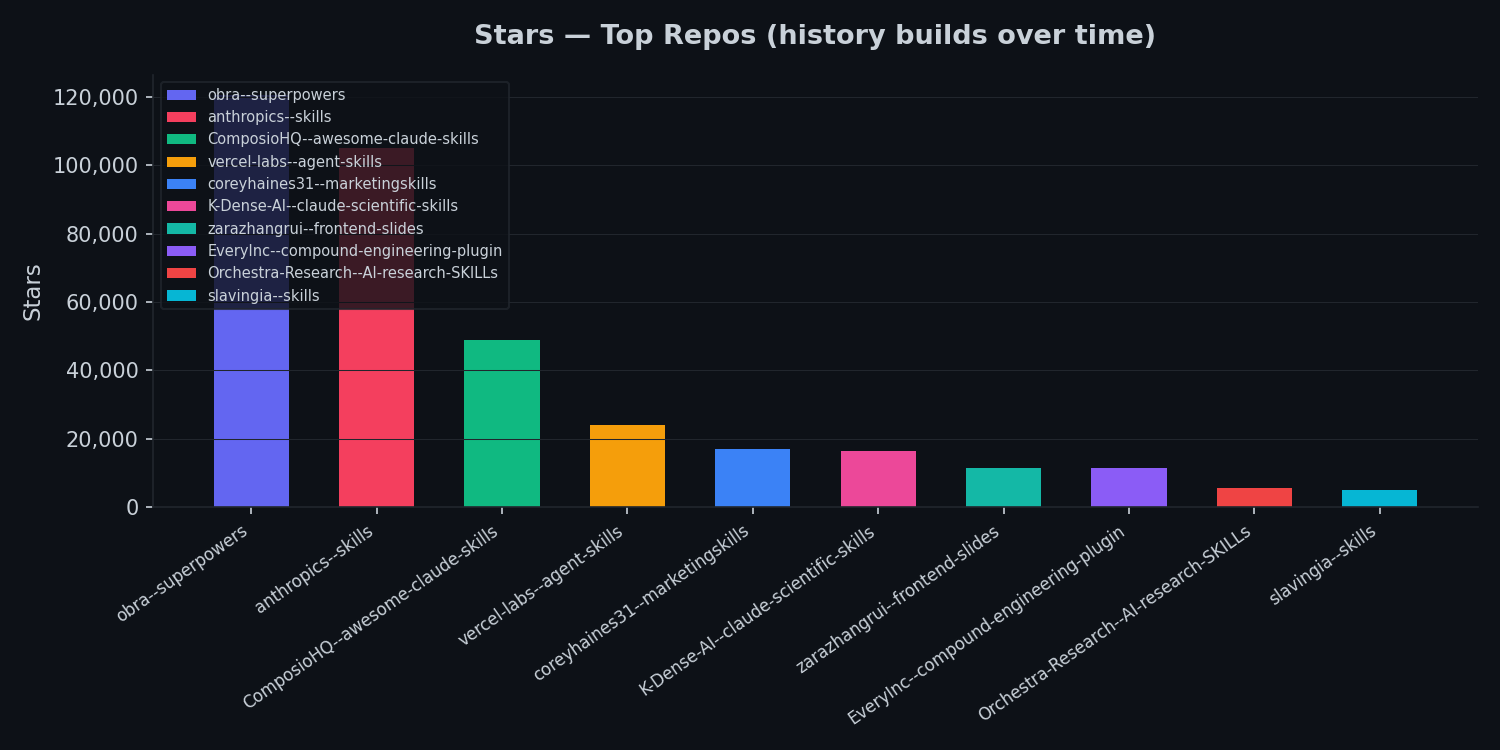
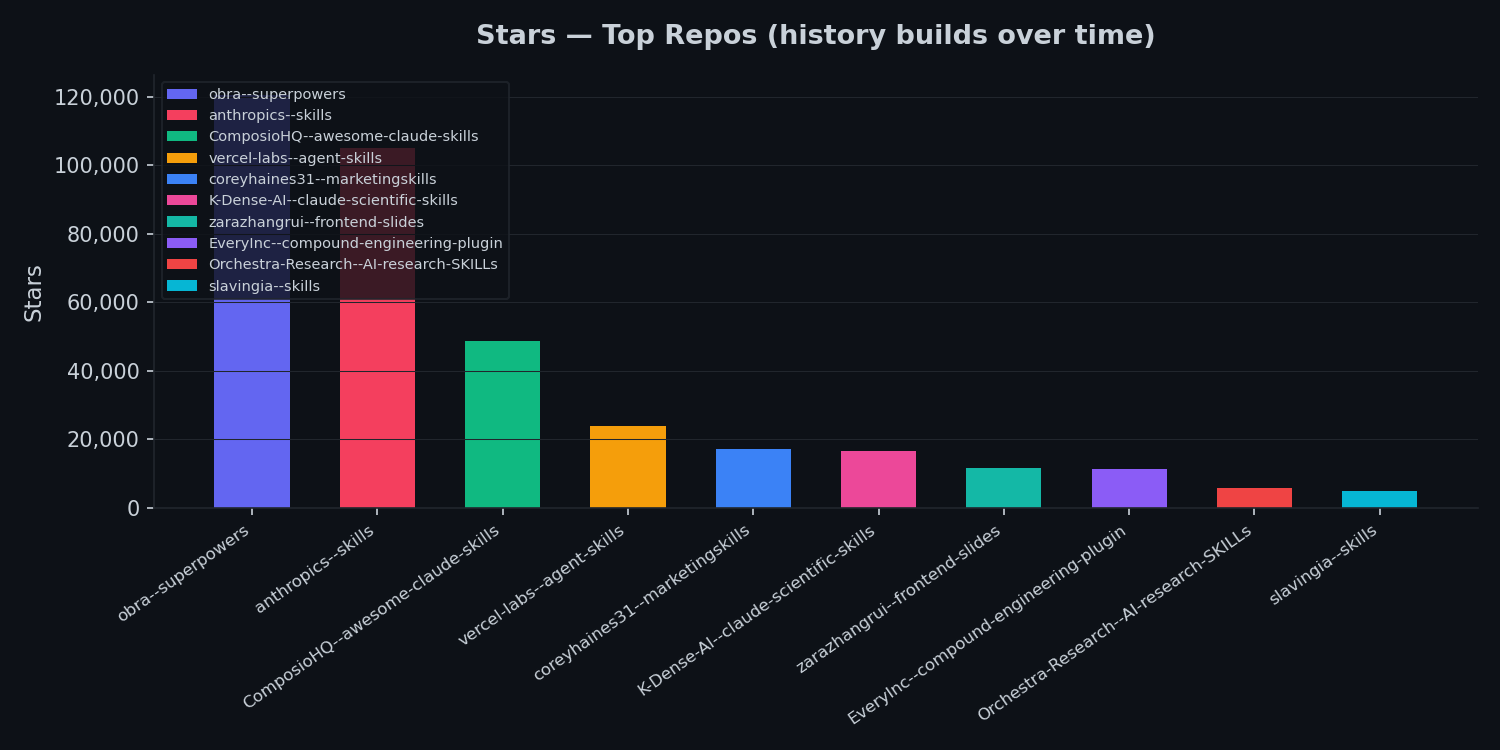
Regenerate after merge conflict

diff --git a/README.md b/README.md
@@ -11,92 +11,92 @@ A curated collection of Claude Code skills repos, automatically synced every 2 d
 | Metric | Value |
 |--------|-------|
 | **Total repos** | 77 |
-| **Total skill files** | 6171 (-11) |
-| **Total size** | 227.8 MB |
-| **Last synced** | 2026-03-28 20:13 UTC |
-| **Sync time** | 31s |
+| **Total skill files** | 6182 |
+| **Total size** | 227.9 MB |
+| **Last synced** | 2026-03-28 20:17 UTC |
+| **Sync time** | 0s |
 
 ## Repos
 
 | Repo | Description | Skills | Stars | Size | Last Commit | Last Commit Date | Message |
 |------|-------------|--------|-------|------|-------------|------------------|---------|
-| [slavingia--skills](https://github.com/slavingia/skills) | Claude Code skills by Sahil Lavingia | 10 | 4942 (+1) | 0.0 MB | `d947f9fdca` | 2026-03-28 | Smart sync: only clone/pull repos with new commits |
-| [zarazhangrui--codebase-to-course](https://github.com/zarazhangrui/codebase-to-course) | Turn any codebase into a structured course | 3 | 2260 (+2) | 0.1 MB | `d947f9fdca` | 2026-03-28 | Smart sync: only clone/pull repos with new commits |
-| [samber--cc-skills-golang](https://github.com/samber/cc-skills-golang) | Claude Code skills for Go development | 168 | 524 (+2) | 2.7 MB | `d947f9fdca` | 2026-03-28 | Smart sync: only clone/pull repos with new commits |
-| [realkimbarrett--advertising-skills](https://github.com/realkimbarrett/advertising-skills) | Advertising skills | 19 | 369 | 0.0 MB | `d947f9fdca` | 2026-03-28 | Smart sync: only clone/pull repos with new commits |
-| [ComposioHQ--awesome-claude-skills](https://github.com/ComposioHQ/awesome-claude-skills) | A curated list of awesome Claude Skills, resources, and tools for customizing Claude AI workflows  | 889 | 48804 (+3) | 11.1 MB | `d947f9fdca` | 2026-03-28 | Smart sync: only clone/pull repos with new commits |
-| [anthropics--skills](https://github.com/anthropics/skills) |  Public repository for Agent Skills  | 67 | 105039 (+3) | 9.5 MB | `d947f9fdca` | 2026-03-28 | Smart sync: only clone/pull repos with new commits |
-| [1NickPappas--move-code-quality-skill](https://github.com/1NickPappas/move-code-quality-skill) | Claude Code skill for analyzing Move packages against the official Move Book Code Quality Checklist | 1 | 18 | 0.0 MB | `d947f9fdca` | 2026-03-28 | Smart sync: only clone/pull repos with new commits |
-| [ARPeeketi--claude-resume-kit](https://github.com/ARPeeketi/claude-resume-kit) | Extract your papers once, generate tailored LaTeX resumes for every JD. Anti-fabrication controls, multi-perspective critique, AI fingerprint avoidance. | 22 | 30 | 0.5 MB | `d947f9fdca` | 2026-03-28 | Smart sync: only clone/pull repos with new commits |
-| [AgriciDaniel--claude-blog](https://github.com/AgriciDaniel/claude-blog) | Claude Code skill ecosystem for blog content creation, optimization, and management. Dual-optimized for Google rankings and AI citations. | 77 | 331 | 2.6 MB | `d947f9fdca` | 2026-03-28 | Smart sync: only clone/pull repos with new commits |
-| [AgriciDaniel--claude-email](https://github.com/AgriciDaniel/claude-email) | AI-powered email management and marketing skill for Claude Code. Inbox triage, composition, quality review, deliverability audit, automation sequences, and marketing strategy. | 27 | 14 | 1.0 MB | `d947f9fdca` | 2026-03-28 | Smart sync: only clone/pull repos with new commits |
-| [ClickHouse--agent-skills](https://github.com/ClickHouse/agent-skills) | The official Agent Skills for ClickHouse and ClickHouse Cloud | 34 | 376 | 0.2 MB | `d947f9fdca` | 2026-03-28 | Smart sync: only clone/pull repos with new commits |
-| [Digidai--product-manager-skills](https://github.com/Digidai/product-manager-skills) | PM skill for Claude Code, Codex, Cursor, and Windsurf: diagnose SaaS metrics, critique PRDs, plan roadmaps, run discovery, and coach PM career transitions. | 25 | 31 | 0.1 MB | `d947f9fdca` | 2026-03-28 | Smart sync: only clone/pull repos with new commits |
-| [EveryInc--compound-engineering-plugin](https://github.com/EveryInc/compound-engineering-plugin) | Office Compound Engineering plugin for Claude Code, Codex, and more | 229 | 11359 | 2.9 MB | `d947f9fdca` | 2026-03-28 | Smart sync: only clone/pull repos with new commits |
-| [Eyadkelleh--awesome-claude-skills-security](https://github.com/Eyadkelleh/awesome-claude-skills-security) | Security testing toolkit for Claude Code: curated SecLists wordlists, injection payloads, and expert agents for authorized pentesting, CTFs, and bug bounties | 19 | 112 | 2.7 MB | `d947f9fdca` | 2026-03-28 | Smart sync: only clone/pull repos with new commits |
-| [HeshamFS--materials-simulation-skills](https://github.com/HeshamFS/materials-simulation-skills) | Agent Skills for computational materials science -- numerical stability, solvers, meshing,   convergence, and simulation workflows. | 69 | 28 | 1.6 MB | `d947f9fdca` | 2026-03-28 | Smart sync: only clone/pull repos with new commits |
-| [Imbad0202--academic-research-skills](https://github.com/Imbad0202/academic-research-skills) | Academic Research Skills for Claude Code: research → write → review → revise → finalize | 120 | 1528 (+1) | 3.9 MB | `d947f9fdca` | 2026-03-28 | Smart sync: only clone/pull repos with new commits |
-| [K-Dense-AI--claude-scientific-skills](https://github.com/K-Dense-AI/claude-scientific-skills) | A set of ready to use Agent Skills for research, science, engineering, analysis, finance and writing. | 921 | 16538 (+1) | 16.5 MB | `d947f9fdca` | 2026-03-28 | Smart sync: only clone/pull repos with new commits |
-| [K-Dense-AI--claude-scientific-writer](https://github.com/K-Dense-AI/claude-scientific-writer) | A general purpose scientific writer | 502 | 1344 | 21.8 MB | `d947f9fdca` | 2026-03-28 | Smart sync: only clone/pull repos with new commits |
-| [NeoLabHQ--context-engineering-kit](https://github.com/NeoLabHQ/context-engineering-kit) | Hand-crafted Claude Code Skills focused on improving agent results quality. Compatible with OpenCode, Cursor, Antigravity, Gemini CLI, and others. | 220 (-10) | 723 | 3.4 MB | `d947f9fdca` | 2026-03-28 | Smart sync: only clone/pull repos with new commits |
-| [Orchestra-Research--AI-research-SKILLs](https://github.com/Orchestra-Research/AI-research-SKILLs) | Comprehensive open-source library of AI research and engineering skills for any AI model. Package the skills and your claude code/codex/gemini agent will be an AI research agent with full horsepower. Maintained by Orchestra Research. | 350 | 5749 | 23.0 MB | `d947f9fdca` | 2026-03-28 | Smart sync: only clone/pull repos with new commits |
-| [Paramchoudhary--ResumeSkills](https://github.com/Paramchoudhary/ResumeSkills) | A collection of AI agent skills focused on resume optimization, job applications, and career development. Built for job seekers, career changers, and professionals who want Claude Code to help with resume writing, ATS optimization, interview prep, and strategic job search. | 27 | 191 | 0.3 MB | `d947f9fdca` | 2026-03-28 | Smart sync: only clone/pull repos with new commits |
-| [Valian--linear-cli-skill](https://github.com/Valian/linear-cli-skill) | linear-cli-skill | 2 | 13 | 0.1 MB | `d947f9fdca` | 2026-03-28 | Smart sync: only clone/pull repos with new commits |
-| [ahmedasmar--devops-claude-skills](https://github.com/ahmedasmar/devops-claude-skills) | A Claude Code Skills Marketplace for DevOps workflows | 41 | 108 | 1.0 MB | `d947f9fdca` | 2026-03-28 | Smart sync: only clone/pull repos with new commits |
-| [airowe--claude-a11y-skill](https://github.com/airowe/claude-a11y-skill) | Claude Code skill for running comprehensive accessibility audits (axe-core + jsx-a11y) | 1 | 4 | 0.0 MB | `d947f9fdca` | 2026-03-28 | Smart sync: only clone/pull repos with new commits |
-| [akin-ozer--cc-devops-skills](https://github.com/akin-ozer/cc-devops-skills) | A practical skill pack for DevOps work in Claude Code and Codex. | 126 | 142 | 4.1 MB | `d947f9fdca` | 2026-03-28 | Smart sync: only clone/pull repos with new commits |
-| [alonw0--web-asset-generator](https://github.com/alonw0/web-asset-generator) | Claude skill to generate favicons, app icons, and social media images from logos, text, or emojis. Supports emoji suggestions, validation, and framework auto-integration. | 4 | 253 | 15.4 MB | `d947f9fdca` | 2026-03-28 | Smart sync: only clone/pull repos with new commits |
-| [antonbabenko--terraform-skill](https://github.com/antonbabenko/terraform-skill) | The Claude Agent Skill for Terraform and OpenTofu - testing, modules, CI/CD, and production patterns | 12 | 1404 | 0.2 MB | `d947f9fdca` | 2026-03-28 | Smart sync: only clone/pull repos with new commits |
-| [avifenesh--agentsys](https://github.com/avifenesh/agentsys) | AI writes code. This automates everything else · 19 plugins, 47 agents, and 39 skills · for Claude Code, OpenCode, Codex, Cursor, Kiro. | 90 | 663 | 3.9 MB | `d947f9fdca` | 2026-03-28 | Smart sync: only clone/pull repos with new commits |
-| [better-auth--skills](https://github.com/better-auth/skills) | skills | 7 | 163 | 0.1 MB | `d947f9fdca` | 2026-03-28 | Smart sync: only clone/pull repos with new commits |
-| [better-i18n--skills](https://github.com/better-i18n/skills) | Official AI agent skills for Better i18n — best practices for i18n implementation, translation workflows, and localization automation with Claude, GPT, and other AI assistants | 10 | 1 | 0.1 MB | `d947f9fdca` | 2026-03-28 | Smart sync: only clone/pull repos with new commits |
-| [brunoasm--my_claude_skills](https://github.com/brunoasm/my_claude_skills) | Claude Skill to prevent automatic confirmatory answers | 13 | 9 | 7.1 MB | `d947f9fdca` | 2026-03-28 | Smart sync: only clone/pull repos with new commits |
-| [callstackincubator--agent-skills](https://github.com/callstackincubator/agent-skills) | A collection of agent-optimized React Native skills for AI coding assistants. | 115 | 1130 | 9.2 MB | `d947f9fdca` | 2026-03-28 | Smart sync: only clone/pull repos with new commits |
-| [chrisvoncsefalvay--claude-d3js-skill](https://github.com/chrisvoncsefalvay/claude-d3js-skill) | A Claude skill for d3.js. | 4 | 138 | 0.1 MB | `d947f9fdca` | 2026-03-28 | Smart sync: only clone/pull repos with new commits |
-| [cloudflare--skills](https://github.com/cloudflare/skills) | Skills for teaching agents how to build on Cloudflare. | 282 | 733 | 1.5 MB | `d947f9fdca` | 2026-03-28 | Smart sync: only clone/pull repos with new commits |
-| [coffeefuelbump--csv-data-summarizer-claude-skill](https://github.com/coffeefuelbump/csv-data-summarizer-claude-skill) | A Claude Skill that automatically analyzes uploaded CSV files — generating summary statistics, detecting missing data, and creating quick visualizations using Python and pandas. | 1 | 315 | 0.0 MB | `d947f9fdca` | 2026-03-28 | Smart sync: only clone/pull repos with new commits |
-| [conorbronsdon--avoid-ai-writing](https://github.com/conorbronsdon/avoid-ai-writing) | Claude Code & OpenClaw skill that audits and rewrites content to remove AI writing patterns | 1 | 47 | 0.1 MB | `d947f9fdca` | 2026-03-28 | Smart sync: only clone/pull repos with new commits |
-| [conorluddy--ios-simulator-skill](https://github.com/conorluddy/ios-simulator-skill) | An IOS Simulator Skill for ClaudeCode. Use it to optimise Claude's ability to build, run and interact with your apps, without using up any of the available token/context budget. | 8 | 674 | 0.4 MB | `d947f9fdca` | 2026-03-28 | Smart sync: only clone/pull repos with new commits |
-| [coreyhaines31--marketingskills](https://github.com/coreyhaines31/marketingskills) | Marketing skills for Claude Code and AI agents. CRO, copywriting, SEO, analytics, and growth engineering. | 174 | 17153 | 1.8 MB | `d947f9fdca` | 2026-03-28 | Smart sync: only clone/pull repos with new commits |
-| [dreamiurg--claude-mountaineering-skills](https://github.com/dreamiurg/claude-mountaineering-skills) | Automates mountain route research for North American peaks. Aggregates data from 10+ mountaineering sources to generate detailed route beta reports with weather, avalanche conditions, and trip reports. | 14 (-1) | 22 | 4.4 MB | `d947f9fdca` | 2026-03-28 | Smart sync: only clone/pull repos with new commits |
-| [emaynard--claude-family-history-research-skill](https://github.com/emaynard/claude-family-history-research-skill) | A Claude Skill to assist with family history and genealogy research planning. | 14 | 49 | 0.1 MB | `d947f9fdca` | 2026-03-28 | Smart sync: only clone/pull repos with new commits |
-| [expo--skills](https://github.com/expo/skills) | A collection of AI agent skills for working with Expo projects and Expo Application Services | 38 | 1565 | 0.2 MB | `d947f9fdca` | 2026-03-28 | Smart sync: only clone/pull repos with new commits |
-| [firecrawl--cli](https://github.com/firecrawl/cli) | CLI and Agent Skill for Firecrawl - Add scrape, search, and browsing capabilities to your AI agents | 10 | 231 (+1) | 0.6 MB | `d947f9fdca` | 2026-03-28 | Smart sync: only clone/pull repos with new commits |
-| [hashicorp--agent-skills](https://github.com/hashicorp/agent-skills) | A collection of Agent skills and Claude Code plugins for HashiCorp products. | 26 | 494 | 0.3 MB | `d947f9fdca` | 2026-03-28 | Smart sync: only clone/pull repos with new commits |
-| [jananthan30--Resume-Builder](https://github.com/jananthan30/Resume-Builder) | AI-powered resume & cover letter generator with dual ATS + HR scoring. Works for any profession. Claude Code plugin. | 18 | 21 | 1.3 MB | `d947f9fdca` | 2026-03-28 | Smart sync: only clone/pull repos with new commits |
-| [javiera-vasquez--claude-code-job-tailor](https://github.com/javiera-vasquez/claude-code-job-tailor) | AI resume optimization system for Claude Code. Analyzes job postings, ranks requirements by priority, and automatically selects your most relevant achievements. Write your experience once in YAML, generate unlimited tailored PDFs in 60 less than seconds using Tailor | 15 | 105 | 34.3 MB | `d947f9fdca` | 2026-03-28 | Smart sync: only clone/pull repos with new commits |
-| [jawwadfirdousi--agent-skills](https://github.com/jawwadfirdousi/agent-skills) | agent-skills | 7 | 5 | 0.1 MB | `d947f9fdca` | 2026-03-28 | Smart sync: only clone/pull repos with new commits |
-| [jthack--ffuf_claude_skill](https://github.com/jthack/ffuf_claude_skill) | This is a "skill" for claude to use FFUF. | 3 | 129 | 0.0 MB | `d947f9fdca` | 2026-03-28 | Smart sync: only clone/pull repos with new commits |
-| [lackeyjb--playwright-skill](https://github.com/lackeyjb/playwright-skill) | Claude Code Skill for browser automation with Playwright. Model-invoked - Claude autonomously writes and executes custom automation for testing and validation. | 2 | 2224 | 0.1 MB | `d947f9fdca` | 2026-03-28 | Smart sync: only clone/pull repos with new commits |
-| [livelabs-ventures--nano-skills](https://github.com/livelabs-ventures/nano-skills) | Creating images with Nano Banana Pro | 1 | 8 | 0.0 MB | `d947f9fdca` | 2026-03-28 | Smart sync: only clone/pull repos with new commits |
-| [mhattingpete--claude-skills-marketplace](https://github.com/mhattingpete/claude-skills-marketplace) | Claude Code Skills for software engineering workflows - Git automation, testing, and code review | 34 | 514 | 1.5 MB | `d947f9fdca` | 2026-03-28 | Smart sync: only clone/pull repos with new commits |
-| [michalparkola--tapestry-skills-for-claude-code](https://github.com/michalparkola/tapestry-skills-for-claude-code) | Claude Code skills to download sources (articles, PDFs, YouTube video transcripts) | 7 | 305 | 0.1 MB | `d947f9fdca` | 2026-03-28 | Smart sync: only clone/pull repos with new commits |
-| [neondatabase--agent-skills](https://github.com/neondatabase/agent-skills) | Agent Skills for Neon Severless Postgres | 13 | 43 | 0.7 MB | `d947f9fdca` | 2026-03-28 | Smart sync: only clone/pull repos with new commits |
-| [netlify--context-and-tools](https://github.com/netlify/context-and-tools) | context-and-tools | 44 | 10 | 0.2 MB | `d947f9fdca` | 2026-03-28 | Smart sync: only clone/pull repos with new commits |
-| [obra--superpowers](https://github.com/obra/superpowers) | An agentic skills framework & software development methodology that works. | 69 | 120491 (+10) | 0.7 MB | `d947f9fdca` | 2026-03-28 | Smart sync: only clone/pull repos with new commits |
-| [obra--superpowers-skills](https://github.com/obra/superpowers-skills) | Community-editable skills for Claude Code's superpowers plugin | 46 | 581 | 0.4 MB | `d947f9fdca` | 2026-03-28 | Smart sync: only clone/pull repos with new commits |
-| [omkamal--pypict-claude-skill](https://github.com/omkamal/pypict-claude-skill) | A claude skill that generate test cases using N-wise test cases using the pypict library | 13 | 62 | 0.1 MB | `d947f9fdca` | 2026-03-28 | Smart sync: only clone/pull repos with new commits |
-| [proficientlyjobs--proficiently-claude-skills](https://github.com/proficientlyjobs/proficiently-claude-skills) | Claude Code skills for AI-powered job search, resume tailoring, and cover letter writing | 24 | 78 | 0.1 MB | `d947f9fdca` | 2026-03-28 | Smart sync: only clone/pull repos with new commits |
-| [remotion-dev--skills](https://github.com/remotion-dev/skills) | Agent Skills | 38 | 2442 | 0.1 MB | `d947f9fdca` | 2026-03-28 | Smart sync: only clone/pull repos with new commits |
-| [replicate--skills](https://github.com/replicate/skills) | A collection of Agent Skills for building AI-powered apps with Replicate | 2 | 26 | 0.0 MB | `d947f9fdca` | 2026-03-28 | Smart sync: only clone/pull repos with new commits |
-| [robertguss--claude-skills](https://github.com/robertguss/claude-skills) | A collection of custom skills that extend Claude's capabilities with specialized workflows, methods, and domain knowledge. | 244 | 53 | 2.2 MB | `d947f9fdca` | 2026-03-28 | Smart sync: only clone/pull repos with new commits |
-| [ryanbbrown--revealjs-skill](https://github.com/ryanbbrown/revealjs-skill) | Claude Code skill for making reveal.js presentations | 4 | 240 | 2.1 MB | `d947f9fdca` | 2026-03-28 | Smart sync: only clone/pull repos with new commits |
-| [sanity-io--agent-toolkit](https://github.com/sanity-io/agent-toolkit) | Collection of resources to help AI agents build better with Sanity. | 44 | 104 | 0.3 MB | `d947f9fdca` | 2026-03-28 | Smart sync: only clone/pull repos with new commits |
-| [sanjay3290--ai-skills](https://github.com/sanjay3290/ai-skills) | Collection of agent skills for AI coding assistants | 24 | 180 | 0.8 MB | `d947f9fdca` | 2026-03-28 | Smart sync: only clone/pull repos with new commits |
-| [smerchek--claude-epub-skill](https://github.com/smerchek/claude-epub-skill) | A Claude Skill for converting markdown documents, chat summaries, or research reports into a downloadable epub file that can be sent to kindle | 5 | 101 | 0.1 MB | `d947f9fdca` | 2026-03-28 | Smart sync: only clone/pull repos with new commits |
-| [squirrelscan--skills](https://github.com/squirrelscan/skills) | Agent skills for squirrelscan website audit tool | 2 | 68 | 0.0 MB | `d947f9fdca` | 2026-03-28 | Smart sync: only clone/pull repos with new commits |
-| [stripe--ai](https://github.com/stripe/ai) | One-stop shop for building AI-powered products and businesses with Stripe. | 47 | 1410 | 22.2 MB | `d947f9fdca` | 2026-03-28 | Smart sync: only clone/pull repos with new commits |
-| [supabase--agent-skills](https://github.com/supabase/agent-skills) | Agent Skills to help developers using AI agents with Supabase | 39 | 1728 | 0.2 MB | `d947f9fdca` | 2026-03-28 | Smart sync: only clone/pull repos with new commits |
-| [tinybirdco--tinybird-agent-skills](https://github.com/tinybirdco/tinybird-agent-skills) | tinybird-agent-skills | 47 | 14 | 0.1 MB | `d947f9fdca` | 2026-03-28 | Smart sync: only clone/pull repos with new commits |
-| [trailofbits--skills](https://github.com/trailofbits/skills) | Trail of Bits Claude Code skills for security research, vulnerability detection, and audit workflows | 389 | 4046 | 3.4 MB | `d947f9fdca` | 2026-03-28 | Smart sync: only clone/pull repos with new commits |
-| [typefully--agent-skills](https://github.com/typefully/agent-skills) | AI agent skills for drafting and scheduling social media posts via Typefully | 4 | 39 | 0.2 MB | `d947f9fdca` | 2026-03-28 | Smart sync: only clone/pull repos with new commits |
-| [varunr89--resume-tailoring-skill](https://github.com/varunr89/resume-tailoring-skill) | AI-powered resume tailoring skill for Claude Code | 12 | 193 | 0.2 MB | `d947f9fdca` | 2026-03-28 | Smart sync: only clone/pull repos with new commits |
-| [vercel-labs--agent-skills](https://github.com/vercel-labs/agent-skills) | Vercel's official collection of agent skills | 127 | 24017 (+1) | 0.7 MB | `d947f9fdca` | 2026-03-28 | Smart sync: only clone/pull repos with new commits |
-| [vercel-labs--next-skills](https://github.com/vercel-labs/next-skills) | next-skills | 24 | 783 | 0.1 MB | `d947f9fdca` | 2026-03-28 | Smart sync: only clone/pull repos with new commits |
-| [wrsmith108--linear-claude-skill](https://github.com/wrsmith108/linear-claude-skill) | Agent skill for managing Linear issues, projects, and teams. MCP tools, SDK automation, GraphQL API patterns. | 7 | 74 | 0.5 MB | `d947f9fdca` | 2026-03-28 | Smart sync: only clone/pull repos with new commits |
-| [wrsmith108--varlock-claude-skill](https://github.com/wrsmith108/varlock-claude-skill) | Claude Code skill for secure environment variable management with Varlock. Never expose secrets in Claude sessions. | 1 | 16 | 0.0 MB | `d947f9fdca` | 2026-03-28 | Smart sync: only clone/pull repos with new commits |
-| [zarazhangrui--frontend-slides](https://github.com/zarazhangrui/frontend-slides) | Create beautiful slides on the web using Claude's frontend skills | 4 | 11553 | 0.1 MB | `d947f9fdca` | 2026-03-28 | Smart sync: only clone/pull repos with new commits |
-| [zxkane--aws-skills](https://github.com/zxkane/aws-skills) | Claude Agent Skills for AWS | 19 | 223 | 0.3 MB | `d947f9fdca` | 2026-03-28 | Smart sync: only clone/pull repos with new commits |
+| [slavingia--skills](https://github.com/slavingia/skills) | Claude Code skills by Sahil Lavingia | 10 | 4942 | 0.0 MB | `794096f680` | 2026-03-28 | Batch API calls via GraphQL — 77 repos metadata in ~4s instead of 60s+ |
+| [zarazhangrui--codebase-to-course](https://github.com/zarazhangrui/codebase-to-course) | Turn any codebase into a structured course | 3 | 2262 | 0.1 MB | `794096f680` | 2026-03-28 | Batch API calls via GraphQL — 77 repos metadata in ~4s instead of 60s+ |
+| [samber--cc-skills-golang](https://github.com/samber/cc-skills-golang) | Claude Code skills for Go development | 168 | 524 | 2.7 MB | `794096f680` | 2026-03-28 | Batch API calls via GraphQL — 77 repos metadata in ~4s instead of 60s+ |
+| [realkimbarrett--advertising-skills](https://github.com/realkimbarrett/advertising-skills) | Advertising skills | 19 | 369 | 0.0 MB | `794096f680` | 2026-03-28 | Batch API calls via GraphQL — 77 repos metadata in ~4s instead of 60s+ |
+| [ComposioHQ--awesome-claude-skills](https://github.com/ComposioHQ/awesome-claude-skills) | A curated list of awesome Claude Skills, resources, and tools for customizing Claude AI workflows  | 889 | 48804 | 11.1 MB | `794096f680` | 2026-03-28 | Batch API calls via GraphQL — 77 repos metadata in ~4s instead of 60s+ |
+| [anthropics--skills](https://github.com/anthropics/skills) |  Public repository for Agent Skills  | 67 | 105040 (+1) | 9.5 MB | `794096f680` | 2026-03-28 | Batch API calls via GraphQL — 77 repos metadata in ~4s instead of 60s+ |
+| [1NickPappas--move-code-quality-skill](https://github.com/1NickPappas/move-code-quality-skill) | Claude Code skill for analyzing Move packages against the official Move Book Code Quality Checklist | 1 | 18 | 0.0 MB | `794096f680` | 2026-03-28 | Batch API calls via GraphQL — 77 repos metadata in ~4s instead of 60s+ |
+| [ARPeeketi--claude-resume-kit](https://github.com/ARPeeketi/claude-resume-kit) | Extract your papers once, generate tailored LaTeX resumes for every JD. Anti-fabrication controls, multi-perspective critique, AI fingerprint avoidance. | 22 | 30 | 0.5 MB | `794096f680` | 2026-03-28 | Batch API calls via GraphQL — 77 repos metadata in ~4s instead of 60s+ |
+| [AgriciDaniel--claude-blog](https://github.com/AgriciDaniel/claude-blog) | Claude Code skill ecosystem for blog content creation, optimization, and management. Dual-optimized for Google rankings and AI citations. | 77 | 331 | 2.6 MB | `794096f680` | 2026-03-28 | Batch API calls via GraphQL — 77 repos metadata in ~4s instead of 60s+ |
+| [AgriciDaniel--claude-email](https://github.com/AgriciDaniel/claude-email) | AI-powered email management and marketing skill for Claude Code. Inbox triage, composition, quality review, deliverability audit, automation sequences, and marketing strategy. | 27 | 14 | 1.0 MB | `794096f680` | 2026-03-28 | Batch API calls via GraphQL — 77 repos metadata in ~4s instead of 60s+ |
+| [ClickHouse--agent-skills](https://github.com/ClickHouse/agent-skills) | The official Agent Skills for ClickHouse and ClickHouse Cloud | 34 | 376 | 0.2 MB | `794096f680` | 2026-03-28 | Batch API calls via GraphQL — 77 repos metadata in ~4s instead of 60s+ |
+| [Digidai--product-manager-skills](https://github.com/Digidai/product-manager-skills) | PM skill for Claude Code, Codex, Cursor, and Windsurf: diagnose SaaS metrics, critique PRDs, plan roadmaps, run discovery, and coach PM career transitions. | 25 | 31 | 0.1 MB | `794096f680` | 2026-03-28 | Batch API calls via GraphQL — 77 repos metadata in ~4s instead of 60s+ |
+| [EveryInc--compound-engineering-plugin](https://github.com/EveryInc/compound-engineering-plugin) | Office Compound Engineering plugin for Claude Code, Codex, and more | 229 | 11359 | 2.9 MB | `794096f680` | 2026-03-28 | Batch API calls via GraphQL — 77 repos metadata in ~4s instead of 60s+ |
+| [Eyadkelleh--awesome-claude-skills-security](https://github.com/Eyadkelleh/awesome-claude-skills-security) | Security testing toolkit for Claude Code: curated SecLists wordlists, injection payloads, and expert agents for authorized pentesting, CTFs, and bug bounties | 19 | 112 | 2.7 MB | `794096f680` | 2026-03-28 | Batch API calls via GraphQL — 77 repos metadata in ~4s instead of 60s+ |
+| [HeshamFS--materials-simulation-skills](https://github.com/HeshamFS/materials-simulation-skills) | Agent Skills for computational materials science -- numerical stability, solvers, meshing,   convergence, and simulation workflows. | 69 | 28 | 1.6 MB | `794096f680` | 2026-03-28 | Batch API calls via GraphQL — 77 repos metadata in ~4s instead of 60s+ |
+| [Imbad0202--academic-research-skills](https://github.com/Imbad0202/academic-research-skills) | Academic Research Skills for Claude Code: research → write → review → revise → finalize | 120 | 1529 | 3.9 MB | `794096f680` | 2026-03-28 | Batch API calls via GraphQL — 77 repos metadata in ~4s instead of 60s+ |
+| [K-Dense-AI--claude-scientific-skills](https://github.com/K-Dense-AI/claude-scientific-skills) | A set of ready to use Agent Skills for research, science, engineering, analysis, finance and writing. | 921 | 16538 | 16.5 MB | `794096f680` | 2026-03-28 | Batch API calls via GraphQL — 77 repos metadata in ~4s instead of 60s+ |
+| [K-Dense-AI--claude-scientific-writer](https://github.com/K-Dense-AI/claude-scientific-writer) | A general purpose scientific writer | 502 | 1344 | 21.8 MB | `794096f680` | 2026-03-28 | Batch API calls via GraphQL — 77 repos metadata in ~4s instead of 60s+ |
+| [NeoLabHQ--context-engineering-kit](https://github.com/NeoLabHQ/context-engineering-kit) | Hand-crafted Claude Code Skills focused on improving agent results quality. Compatible with OpenCode, Cursor, Antigravity, Gemini CLI, and others. | 230 | 723 | 3.5 MB | `794096f680` | 2026-03-28 | Batch API calls via GraphQL — 77 repos metadata in ~4s instead of 60s+ |
+| [Orchestra-Research--AI-research-SKILLs](https://github.com/Orchestra-Research/AI-research-SKILLs) | Comprehensive open-source library of AI research and engineering skills for any AI model. Package the skills and your claude code/codex/gemini agent will be an AI research agent with full horsepower. Maintained by Orchestra Research. | 350 | 5749 | 23.0 MB | `794096f680` | 2026-03-28 | Batch API calls via GraphQL — 77 repos metadata in ~4s instead of 60s+ |
+| [Paramchoudhary--ResumeSkills](https://github.com/Paramchoudhary/ResumeSkills) | A collection of AI agent skills focused on resume optimization, job applications, and career development. Built for job seekers, career changers, and professionals who want Claude Code to help with resume writing, ATS optimization, interview prep, and strategic job search. | 27 | 191 | 0.3 MB | `794096f680` | 2026-03-28 | Batch API calls via GraphQL — 77 repos metadata in ~4s instead of 60s+ |
+| [Valian--linear-cli-skill](https://github.com/Valian/linear-cli-skill) | linear-cli-skill | 2 | 13 | 0.1 MB | `794096f680` | 2026-03-28 | Batch API calls via GraphQL — 77 repos metadata in ~4s instead of 60s+ |
+| [ahmedasmar--devops-claude-skills](https://github.com/ahmedasmar/devops-claude-skills) | A Claude Code Skills Marketplace for DevOps workflows | 41 | 108 | 1.0 MB | `794096f680` | 2026-03-28 | Batch API calls via GraphQL — 77 repos metadata in ~4s instead of 60s+ |
+| [airowe--claude-a11y-skill](https://github.com/airowe/claude-a11y-skill) | Claude Code skill for running comprehensive accessibility audits (axe-core + jsx-a11y) | 1 | 4 | 0.0 MB | `794096f680` | 2026-03-28 | Batch API calls via GraphQL — 77 repos metadata in ~4s instead of 60s+ |
+| [akin-ozer--cc-devops-skills](https://github.com/akin-ozer/cc-devops-skills) | A practical skill pack for DevOps work in Claude Code and Codex. | 126 | 142 | 4.1 MB | `794096f680` | 2026-03-28 | Batch API calls via GraphQL — 77 repos metadata in ~4s instead of 60s+ |
+| [alonw0--web-asset-generator](https://github.com/alonw0/web-asset-generator) | Claude skill to generate favicons, app icons, and social media images from logos, text, or emojis. Supports emoji suggestions, validation, and framework auto-integration. | 4 | 253 | 15.4 MB | `794096f680` | 2026-03-28 | Batch API calls via GraphQL — 77 repos metadata in ~4s instead of 60s+ |
+| [antonbabenko--terraform-skill](https://github.com/antonbabenko/terraform-skill) | The Claude Agent Skill for Terraform and OpenTofu - testing, modules, CI/CD, and production patterns | 12 | 1404 | 0.2 MB | `794096f680` | 2026-03-28 | Batch API calls via GraphQL — 77 repos metadata in ~4s instead of 60s+ |
+| [avifenesh--agentsys](https://github.com/avifenesh/agentsys) | AI writes code. This automates everything else · 19 plugins, 47 agents, and 39 skills · for Claude Code, OpenCode, Codex, Cursor, Kiro. | 90 | 663 | 3.9 MB | `794096f680` | 2026-03-28 | Batch API calls via GraphQL — 77 repos metadata in ~4s instead of 60s+ |
+| [better-auth--skills](https://github.com/better-auth/skills) | skills | 7 | 163 | 0.1 MB | `794096f680` | 2026-03-28 | Batch API calls via GraphQL — 77 repos metadata in ~4s instead of 60s+ |
+| [better-i18n--skills](https://github.com/better-i18n/skills) | Official AI agent skills for Better i18n — best practices for i18n implementation, translation workflows, and localization automation with Claude, GPT, and other AI assistants | 10 | 1 | 0.1 MB | `794096f680` | 2026-03-28 | Batch API calls via GraphQL — 77 repos metadata in ~4s instead of 60s+ |
+| [brunoasm--my_claude_skills](https://github.com/brunoasm/my_claude_skills) | Claude Skill to prevent automatic confirmatory answers | 13 | 9 | 7.1 MB | `794096f680` | 2026-03-28 | Batch API calls via GraphQL — 77 repos metadata in ~4s instead of 60s+ |
+| [callstackincubator--agent-skills](https://github.com/callstackincubator/agent-skills) | A collection of agent-optimized React Native skills for AI coding assistants. | 115 | 1130 | 9.2 MB | `794096f680` | 2026-03-28 | Batch API calls via GraphQL — 77 repos metadata in ~4s instead of 60s+ |
+| [chrisvoncsefalvay--claude-d3js-skill](https://github.com/chrisvoncsefalvay/claude-d3js-skill) | A Claude skill for d3.js. | 4 | 138 | 0.1 MB | `794096f680` | 2026-03-28 | Batch API calls via GraphQL — 77 repos metadata in ~4s instead of 60s+ |
+| [cloudflare--skills](https://github.com/cloudflare/skills) | Skills for teaching agents how to build on Cloudflare. | 282 | 733 | 1.5 MB | `794096f680` | 2026-03-28 | Batch API calls via GraphQL — 77 repos metadata in ~4s instead of 60s+ |
+| [coffeefuelbump--csv-data-summarizer-claude-skill](https://github.com/coffeefuelbump/csv-data-summarizer-claude-skill) | A Claude Skill that automatically analyzes uploaded CSV files — generating summary statistics, detecting missing data, and creating quick visualizations using Python and pandas. | 1 | 315 | 0.0 MB | `794096f680` | 2026-03-28 | Batch API calls via GraphQL — 77 repos metadata in ~4s instead of 60s+ |
+| [conorbronsdon--avoid-ai-writing](https://github.com/conorbronsdon/avoid-ai-writing) | Claude Code & OpenClaw skill that audits and rewrites content to remove AI writing patterns | 1 | 47 | 0.1 MB | `794096f680` | 2026-03-28 | Batch API calls via GraphQL — 77 repos metadata in ~4s instead of 60s+ |
+| [conorluddy--ios-simulator-skill](https://github.com/conorluddy/ios-simulator-skill) | An IOS Simulator Skill for ClaudeCode. Use it to optimise Claude's ability to build, run and interact with your apps, without using up any of the available token/context budget. | 8 | 674 | 0.4 MB | `794096f680` | 2026-03-28 | Batch API calls via GraphQL — 77 repos metadata in ~4s instead of 60s+ |
+| [coreyhaines31--marketingskills](https://github.com/coreyhaines31/marketingskills) | Marketing skills for Claude Code and AI agents. CRO, copywriting, SEO, analytics, and growth engineering. | 174 | 17153 | 1.8 MB | `794096f680` | 2026-03-28 | Batch API calls via GraphQL — 77 repos metadata in ~4s instead of 60s+ |
+| [dreamiurg--claude-mountaineering-skills](https://github.com/dreamiurg/claude-mountaineering-skills) | Automates mountain route research for North American peaks. Aggregates data from 10+ mountaineering sources to generate detailed route beta reports with weather, avalanche conditions, and trip reports. | 15 | 22 | 4.4 MB | `794096f680` | 2026-03-28 | Batch API calls via GraphQL — 77 repos metadata in ~4s instead of 60s+ |
+| [emaynard--claude-family-history-research-skill](https://github.com/emaynard/claude-family-history-research-skill) | A Claude Skill to assist with family history and genealogy research planning. | 14 | 49 | 0.1 MB | `794096f680` | 2026-03-28 | Batch API calls via GraphQL — 77 repos metadata in ~4s instead of 60s+ |
+| [expo--skills](https://github.com/expo/skills) | A collection of AI agent skills for working with Expo projects and Expo Application Services | 38 | 1565 | 0.2 MB | `794096f680` | 2026-03-28 | Batch API calls via GraphQL — 77 repos metadata in ~4s instead of 60s+ |
+| [firecrawl--cli](https://github.com/firecrawl/cli) | CLI and Agent Skill for Firecrawl - Add scrape, search, and browsing capabilities to your AI agents | 10 | 231 | 0.6 MB | `794096f680` | 2026-03-28 | Batch API calls via GraphQL — 77 repos metadata in ~4s instead of 60s+ |
+| [hashicorp--agent-skills](https://github.com/hashicorp/agent-skills) | A collection of Agent skills and Claude Code plugins for HashiCorp products. | 26 | 494 | 0.3 MB | `794096f680` | 2026-03-28 | Batch API calls via GraphQL — 77 repos metadata in ~4s instead of 60s+ |
+| [jananthan30--Resume-Builder](https://github.com/jananthan30/Resume-Builder) | AI-powered resume & cover letter generator with dual ATS + HR scoring. Works for any profession. Claude Code plugin. | 18 | 21 | 1.3 MB | `794096f680` | 2026-03-28 | Batch API calls via GraphQL — 77 repos metadata in ~4s instead of 60s+ |
+| [javiera-vasquez--claude-code-job-tailor](https://github.com/javiera-vasquez/claude-code-job-tailor) | AI resume optimization system for Claude Code. Analyzes job postings, ranks requirements by priority, and automatically selects your most relevant achievements. Write your experience once in YAML, generate unlimited tailored PDFs in 60 less than seconds using Tailor | 15 | 105 | 34.3 MB | `794096f680` | 2026-03-28 | Batch API calls via GraphQL — 77 repos metadata in ~4s instead of 60s+ |
+| [jawwadfirdousi--agent-skills](https://github.com/jawwadfirdousi/agent-skills) | agent-skills | 7 | 5 | 0.1 MB | `794096f680` | 2026-03-28 | Batch API calls via GraphQL — 77 repos metadata in ~4s instead of 60s+ |
+| [jthack--ffuf_claude_skill](https://github.com/jthack/ffuf_claude_skill) | This is a "skill" for claude to use FFUF. | 3 | 129 | 0.0 MB | `794096f680` | 2026-03-28 | Batch API calls via GraphQL — 77 repos metadata in ~4s instead of 60s+ |
+| [lackeyjb--playwright-skill](https://github.com/lackeyjb/playwright-skill) | Claude Code Skill for browser automation with Playwright. Model-invoked - Claude autonomously writes and executes custom automation for testing and validation. | 2 | 2224 | 0.1 MB | `794096f680` | 2026-03-28 | Batch API calls via GraphQL — 77 repos metadata in ~4s instead of 60s+ |
+| [livelabs-ventures--nano-skills](https://github.com/livelabs-ventures/nano-skills) | Creating images with Nano Banana Pro | 1 | 8 | 0.0 MB | `794096f680` | 2026-03-28 | Batch API calls via GraphQL — 77 repos metadata in ~4s instead of 60s+ |
+| [mhattingpete--claude-skills-marketplace](https://github.com/mhattingpete/claude-skills-marketplace) | Claude Code Skills for software engineering workflows - Git automation, testing, and code review | 34 | 514 | 1.5 MB | `794096f680` | 2026-03-28 | Batch API calls via GraphQL — 77 repos metadata in ~4s instead of 60s+ |
+| [michalparkola--tapestry-skills-for-claude-code](https://github.com/michalparkola/tapestry-skills-for-claude-code) | Claude Code skills to download sources (articles, PDFs, YouTube video transcripts) | 7 | 305 | 0.1 MB | `794096f680` | 2026-03-28 | Batch API calls via GraphQL — 77 repos metadata in ~4s instead of 60s+ |
+| [neondatabase--agent-skills](https://github.com/neondatabase/agent-skills) | Agent Skills for Neon Severless Postgres | 13 | 43 | 0.7 MB | `794096f680` | 2026-03-28 | Batch API calls via GraphQL — 77 repos metadata in ~4s instead of 60s+ |
+| [netlify--context-and-tools](https://github.com/netlify/context-and-tools) | context-and-tools | 44 | 10 | 0.2 MB | `794096f680` | 2026-03-28 | Batch API calls via GraphQL — 77 repos metadata in ~4s instead of 60s+ |
+| [obra--superpowers](https://github.com/obra/superpowers) | An agentic skills framework & software development methodology that works. | 69 | 120494 (+1) | 0.7 MB | `794096f680` | 2026-03-28 | Batch API calls via GraphQL — 77 repos metadata in ~4s instead of 60s+ |
+| [obra--superpowers-skills](https://github.com/obra/superpowers-skills) | Community-editable skills for Claude Code's superpowers plugin | 46 | 581 | 0.4 MB | `794096f680` | 2026-03-28 | Batch API calls via GraphQL — 77 repos metadata in ~4s instead of 60s+ |
+| [omkamal--pypict-claude-skill](https://github.com/omkamal/pypict-claude-skill) | A claude skill that generate test cases using N-wise test cases using the pypict library | 13 | 62 | 0.1 MB | `794096f680` | 2026-03-28 | Batch API calls via GraphQL — 77 repos metadata in ~4s instead of 60s+ |
+| [proficientlyjobs--proficiently-claude-skills](https://github.com/proficientlyjobs/proficiently-claude-skills) | Claude Code skills for AI-powered job search, resume tailoring, and cover letter writing | 24 | 78 | 0.1 MB | `794096f680` | 2026-03-28 | Batch API calls via GraphQL — 77 repos metadata in ~4s instead of 60s+ |
+| [remotion-dev--skills](https://github.com/remotion-dev/skills) | Agent Skills | 38 | 2442 | 0.1 MB | `794096f680` | 2026-03-28 | Batch API calls via GraphQL — 77 repos metadata in ~4s instead of 60s+ |
+| [replicate--skills](https://github.com/replicate/skills) | A collection of Agent Skills for building AI-powered apps with Replicate | 2 | 26 | 0.0 MB | `794096f680` | 2026-03-28 | Batch API calls via GraphQL — 77 repos metadata in ~4s instead of 60s+ |
+| [robertguss--claude-skills](https://github.com/robertguss/claude-skills) | A collection of custom skills that extend Claude's capabilities with specialized workflows, methods, and domain knowledge. | 244 | 53 | 2.2 MB | `794096f680` | 2026-03-28 | Batch API calls via GraphQL — 77 repos metadata in ~4s instead of 60s+ |
+| [ryanbbrown--revealjs-skill](https://github.com/ryanbbrown/revealjs-skill) | Claude Code skill for making reveal.js presentations | 4 | 240 | 2.1 MB | `794096f680` | 2026-03-28 | Batch API calls via GraphQL — 77 repos metadata in ~4s instead of 60s+ |
+| [sanity-io--agent-toolkit](https://github.com/sanity-io/agent-toolkit) | Collection of resources to help AI agents build better with Sanity. | 44 | 104 | 0.3 MB | `794096f680` | 2026-03-28 | Batch API calls via GraphQL — 77 repos metadata in ~4s instead of 60s+ |
+| [sanjay3290--ai-skills](https://github.com/sanjay3290/ai-skills) | Collection of agent skills for AI coding assistants | 24 | 180 | 0.8 MB | `794096f680` | 2026-03-28 | Batch API calls via GraphQL — 77 repos metadata in ~4s instead of 60s+ |
+| [smerchek--claude-epub-skill](https://github.com/smerchek/claude-epub-skill) | A Claude Skill for converting markdown documents, chat summaries, or research reports into a downloadable epub file that can be sent to kindle | 5 | 101 | 0.1 MB | `794096f680` | 2026-03-28 | Batch API calls via GraphQL — 77 repos metadata in ~4s instead of 60s+ |
+| [squirrelscan--skills](https://github.com/squirrelscan/skills) | Agent skills for squirrelscan website audit tool | 2 | 68 | 0.0 MB | `794096f680` | 2026-03-28 | Batch API calls via GraphQL — 77 repos metadata in ~4s instead of 60s+ |
+| [stripe--ai](https://github.com/stripe/ai) | One-stop shop for building AI-powered products and businesses with Stripe. | 47 | 1410 | 22.2 MB | `794096f680` | 2026-03-28 | Batch API calls via GraphQL — 77 repos metadata in ~4s instead of 60s+ |
+| [supabase--agent-skills](https://github.com/supabase/agent-skills) | Agent Skills to help developers using AI agents with Supabase | 39 | 1728 | 0.2 MB | `794096f680` | 2026-03-28 | Batch API calls via GraphQL — 77 repos metadata in ~4s instead of 60s+ |
+| [tinybirdco--tinybird-agent-skills](https://github.com/tinybirdco/tinybird-agent-skills) | tinybird-agent-skills | 47 | 14 | 0.1 MB | `794096f680` | 2026-03-28 | Batch API calls via GraphQL — 77 repos metadata in ~4s instead of 60s+ |
+| [trailofbits--skills](https://github.com/trailofbits/skills) | Trail of Bits Claude Code skills for security research, vulnerability detection, and audit workflows | 389 | 4046 | 3.4 MB | `794096f680` | 2026-03-28 | Batch API calls via GraphQL — 77 repos metadata in ~4s instead of 60s+ |
+| [typefully--agent-skills](https://github.com/typefully/agent-skills) | AI agent skills for drafting and scheduling social media posts via Typefully | 4 | 39 | 0.2 MB | `794096f680` | 2026-03-28 | Batch API calls via GraphQL — 77 repos metadata in ~4s instead of 60s+ |
+| [varunr89--resume-tailoring-skill](https://github.com/varunr89/resume-tailoring-skill) | AI-powered resume tailoring skill for Claude Code | 12 | 193 | 0.2 MB | `794096f680` | 2026-03-28 | Batch API calls via GraphQL — 77 repos metadata in ~4s instead of 60s+ |
+| [vercel-labs--agent-skills](https://github.com/vercel-labs/agent-skills) | Vercel's official collection of agent skills | 127 | 24017 | 0.7 MB | `794096f680` | 2026-03-28 | Batch API calls via GraphQL — 77 repos metadata in ~4s instead of 60s+ |
+| [vercel-labs--next-skills](https://github.com/vercel-labs/next-skills) | next-skills | 24 | 783 | 0.1 MB | `794096f680` | 2026-03-28 | Batch API calls via GraphQL — 77 repos metadata in ~4s instead of 60s+ |
+| [wrsmith108--linear-claude-skill](https://github.com/wrsmith108/linear-claude-skill) | Agent skill for managing Linear issues, projects, and teams. MCP tools, SDK automation, GraphQL API patterns. | 7 | 74 | 0.5 MB | `794096f680` | 2026-03-28 | Batch API calls via GraphQL — 77 repos metadata in ~4s instead of 60s+ |
+| [wrsmith108--varlock-claude-skill](https://github.com/wrsmith108/varlock-claude-skill) | Claude Code skill for secure environment variable management with Varlock. Never expose secrets in Claude sessions. | 1 | 16 | 0.0 MB | `794096f680` | 2026-03-28 | Batch API calls via GraphQL — 77 repos metadata in ~4s instead of 60s+ |
+| [zarazhangrui--frontend-slides](https://github.com/zarazhangrui/frontend-slides) | Create beautiful slides on the web using Claude's frontend skills | 4 | 11554 | 0.1 MB | `794096f680` | 2026-03-28 | Batch API calls via GraphQL — 77 repos metadata in ~4s instead of 60s+ |
+| [zxkane--aws-skills](https://github.com/zxkane/aws-skills) | Claude Agent Skills for AWS | 19 | 223 | 0.3 MB | `794096f680` | 2026-03-28 | Batch API calls via GraphQL — 77 repos metadata in ~4s instead of 60s+ |
 
 ## Charts
 
@@ -118,4 +118,4 @@ A GitHub Actions workflow runs every 2 days to:
 
 ---
 
-*Auto-generated by `generate_readme.py` on 2026-03-28 20:13 UTC*
+*Auto-generated by `generate_readme.py` on 2026-03-28 20:17 UTC*

diff --git a/skills/EveryInc--compound-engineering-plugin/CHANGELOG.md b/skills/EveryInc--compound-engineering-plugin/CHANGELOG.md
@@ -1,5 +1,12 @@
 # Changelog
 
+## [2.58.1](https://github.com/EveryInc/compound-engineering-plugin/compare/cli-v2.58.0...cli-v2.58.1) (2026-03-28)
+
+
+### Bug Fixes
+
+* **release:** align cli and compound-engineering versions with linked-versions plugin ([0bd29c7](https://github.com/EveryInc/compound-engineering-plugin/commit/0bd29c7f2e930fc1198cc7ae833394bfabd47c40))
+
 ## [2.58.0](https://github.com/EveryInc/compound-engineering-plugin/compare/cli-v2.57.1...cli-v2.58.0) (2026-03-28)
 
 

diff --git a/skills/EveryInc--compound-engineering-plugin/plugins/compound-engineering/CHANGELOG.md b/skills/EveryInc--compound-engineering-plugin/plugins/compound-engineering/CHANGELOG.md
@@ -9,6 +9,13 @@ All notable changes to the compound-engineering plugin will be documented in thi
 The format is based on [Keep a Changelog](https://keepachangelog.com/en/1.0.0/),
 and this project adheres to [Semantic Versioning](https://semver.org/spec/v2.0.0.html).
 
+## [2.58.1](https://github.com/EveryInc/compound-engineering-plugin/compare/compound-engineering-v2.58.0...compound-engineering-v2.58.1) (2026-03-28)
+
+
+### Miscellaneous Chores
+
+* **compound-engineering:** Synchronize compound-engineering versions
+
 ## [2.57.0](https://github.com/EveryInc/compound-engineering-plugin/compare/compound-engineering-v2.56.1...compound-engineering-v2.57.0) (2026-03-28)
 
 